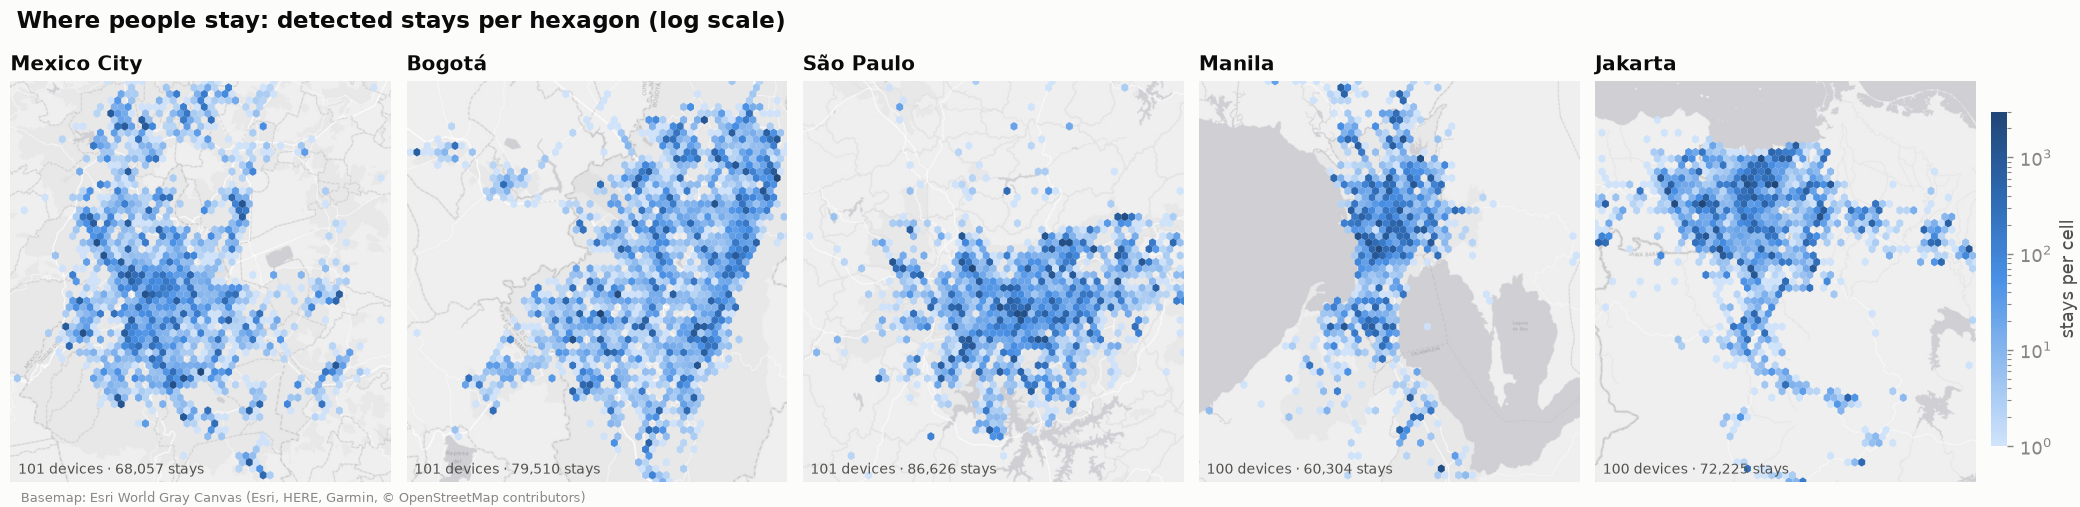
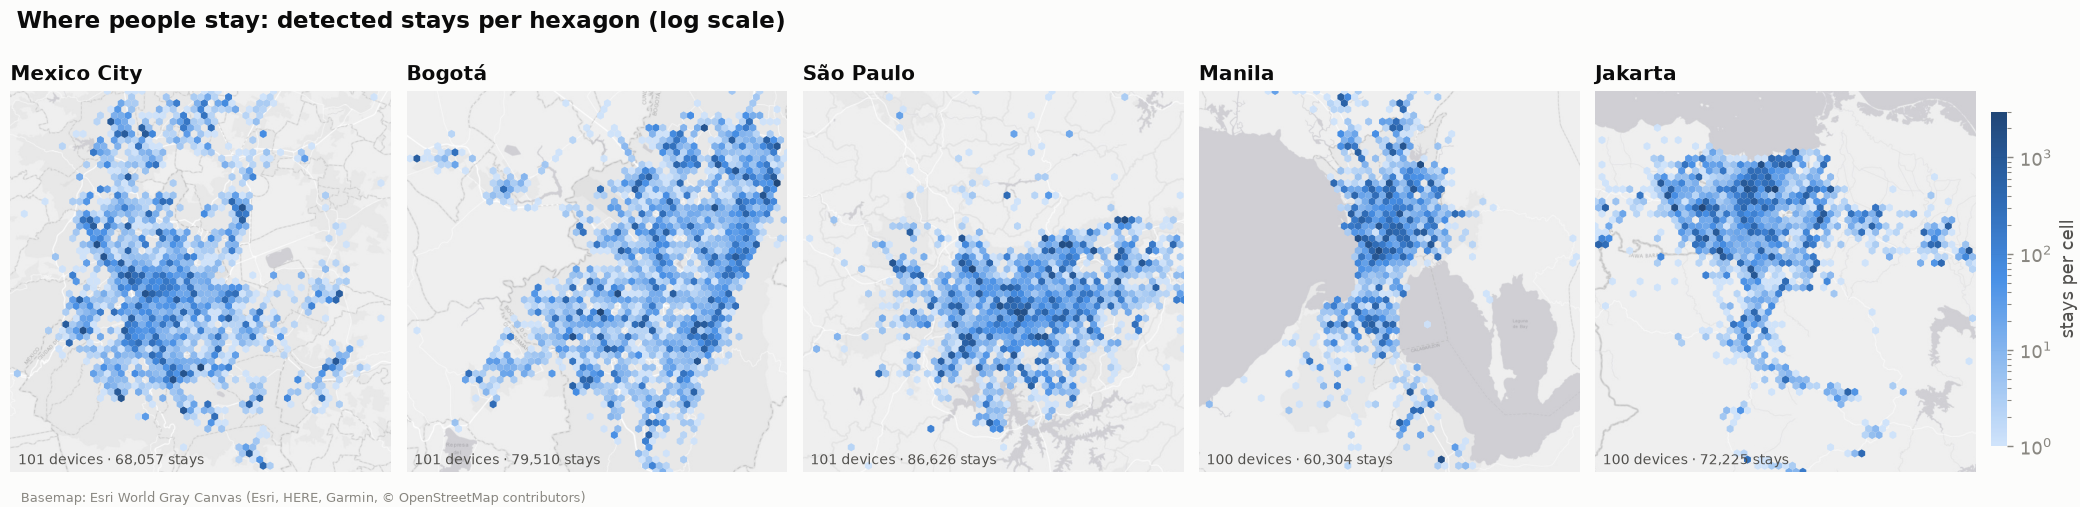
Keep true proportions in polygon maps (equal aspect for H3 and hexbin panels)

diff --git a/examples/mexico_city_figures.py b/examples/mexico_city_figures.py
@@ -213,6 +213,7 @@ def draw_hex(ax, cells, values, cmap, norm, t, ext):
     cells, values = clip_cells(cells, values)
     x0, x1, y0, y1 = ext
     ax.set_xlim(x0, x1), ax.set_ylim(y0, y1)
+    ax.set_aspect("equal", adjustable="box")   # true proportions (polygons do not imply an aspect)
     basemap(ax, t)
     pc = PolyCollection(hexes(cells), array=np.asarray(values, float), cmap=cmap, norm=norm,
                         edgecolors="none", alpha=0.9, zorder=2)
@@ -248,8 +249,8 @@ def fig_h3(loc, t, path, k=5):
     H, W = b8["homes"].sum(), b8["workers"].sum()
     bal = np.log2((b8["workers"].to_numpy() / W) / (b8["homes"].to_numpy() / H))
 
-    fig, axes = plt.subplots(1, 3, figsize=(15, 6.2))
-    fig.subplots_adjust(left=0.005, right=0.995, wspace=0.05, top=0.83, bottom=0.12)
+    fig, axes = plt.subplots(1, 3, figsize=(15, 8.0))
+    fig.subplots_adjust(left=0.005, right=0.995, wspace=0.05, top=0.87, bottom=0.10)
     ext = extent()
     q = lambda s: float(np.percentile(s.to_numpy(), 99))
     panels = [
@@ -269,7 +270,7 @@ def fig_h3(loc, t, path, k=5):
             count_ticks(cb, norm.vmin, norm.vmax)
     fig.suptitle("Where Mexico City lives and works", x=0.008, y=0.985, ha="left", fontsize=13, fontweight="bold",
                  color=t["ink"])
-    fig.text(0.008, 0.92, f"Cells with fewer than {k} devices are hidden. Homes / work places on coordinate sinks "
+    fig.text(0.008, 0.935, f"Cells with fewer than {k} devices are hidden. Homes / work places on coordinate sinks "
              f"(exact points shared by 50+ devices: {nh:,} homes, {nw:,} work places) are excluded.",
              fontsize=9, color=t["ink2"])
     fig.text(0.008, 0.008, ATTRIBUTION, fontsize=7, color=t["muted"])

diff --git a/examples/make_figures.py b/examples/make_figures.py
@@ -86,6 +86,7 @@ def fig_stop_density(hw, t, out):
         basemap(ax, t)
         hb = ax.hexbin(x, y, gridsize=55, extent=(x0, x1, y0, y1), cmap=cmap, norm=LogNorm(1, 3000),
                        mincnt=1, linewidths=0, alpha=0.92, zorder=2)
+        ax.set_aspect("equal", adjustable="box")
         ax.set_title(name, color=t["ink"]), ax.set_xticks([]), ax.set_yticks([]), ax.grid(False)
         for s in ax.spines.values():
             s.set_visible(False)
@@ -113,6 +114,7 @@ def fig_trajectories(tr, hw, t, out, tz="America/Sao_Paulo"):
     ax.set_xlim(x0, x1), ax.set_ylim(y0, y1)
     basemap(ax, t)
     ax.add_collection(LineCollection(segs, colors=t["series"][0], linewidths=0.7, alpha=t["line_alpha"] * 3, zorder=2))
+    ax.set_aspect("equal", adjustable="box")
     ax.set_xticks([]), ax.set_yticks([]), ax.grid(False)
     for s in ax.spines.values():
         s.set_visible(False)
